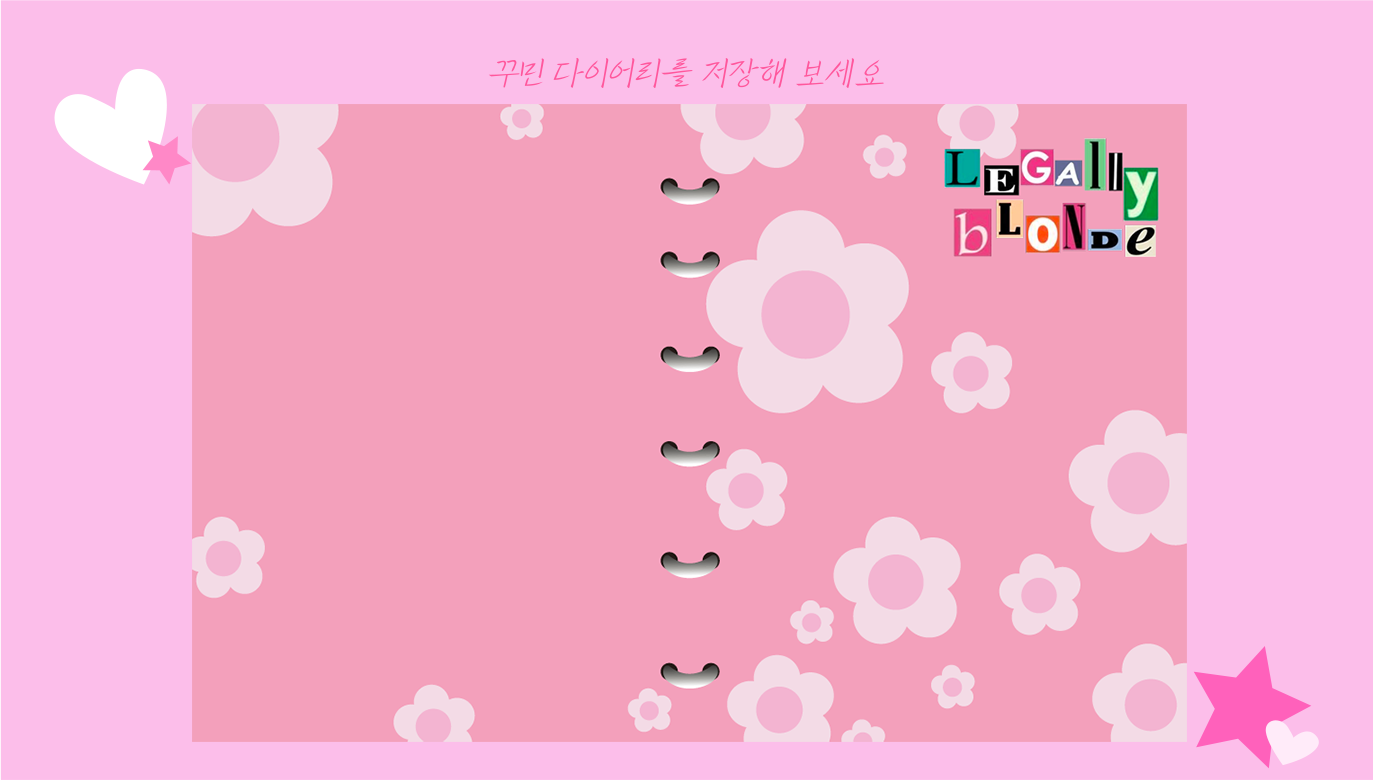
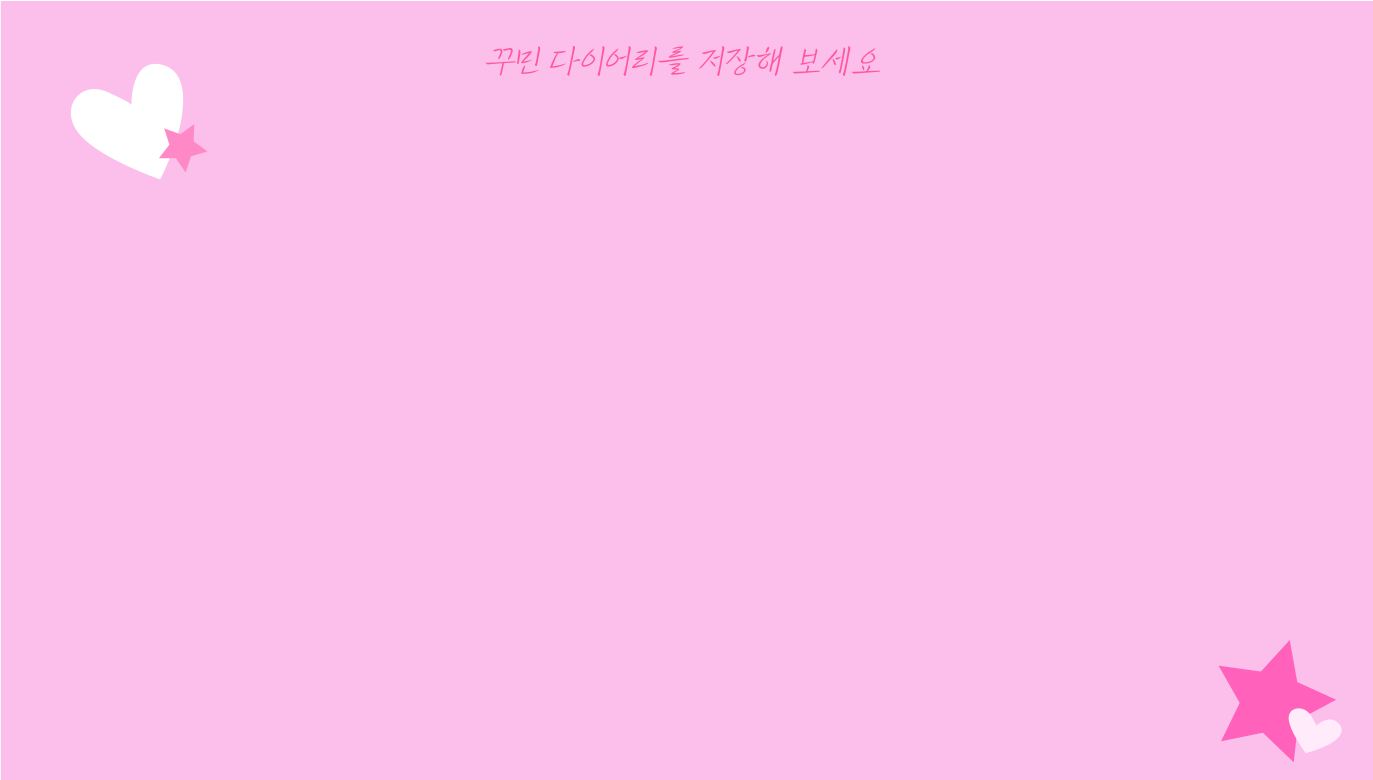
final needed

diff --git a/src/pages/SavePage/SavePage.js b/src/pages/SavePage/SavePage.js
@@ -1,34 +1,44 @@
-import React, { useRef } from "react";
+import React, { useState, useEffect } from "react";
 import html2canvas from "html2canvas";
-
-import stick from "../../assets/images/15.png";
-
 import classes from "./SavePage.module.css";
 
-const ImageExporter = () => {
-  const componentRef = useRef(null);
+const SavePage = ({ posterImageRef, contentImageRef }) => {
+  const [posterSrc, setPosterSrc] = useState("");
+  const [contentSrc, setContentSrc] = useState("");
 
   const exportAsPng = () => {
-    html2canvas(componentRef.current).then((canvas) => {
-      const dataUrl = canvas.toDataURL("image/png");
-      const link = document.createElement("a");
-      link.href = dataUrl;
-      link.download = "image.png";
-      link.click();
-    });
+    // Perform export logic here
   };
+
+  useEffect(() => {
+    const updateImages = async () => {
+      if (posterImageRef.current) {
+        const posterCanvas = await html2canvas(posterImageRef.current);
+        setPosterSrc(posterCanvas.toDataURL());
+      }
+
+      if (contentImageRef.current) {
+        const contentCanvas = await html2canvas(contentImageRef.current);
+        setContentSrc(contentCanvas.toDataURL());
+      }
+    };
+
+    updateImages();
+  }, [posterImageRef, contentImageRef]);
 
   return (
     <div className={classes["save-background"]}>
-      {/* Your component with the <img> tag */}
-      <div ref={componentRef}>
-        <img src={stick} alt="" />
+      <div className={classes["container"]}>
+        <div id="poster" className={classes["poster"]}>
+          {posterSrc && <img src={posterSrc} alt="Poster" />}
+        </div>
+        <div id="content" className={classes["content"]}>
+          {contentSrc && <img src={contentSrc} alt="Content" />}
+        </div>
       </div>
-
-      {/* Button to trigger export */}
       <button onClick={exportAsPng}>Export as PNG</button>
     </div>
   );
 };
 
-export default ImageExporter;
+export default SavePage;

diff --git a/src/pages/ContentPage/ContentPage.module.css b/src/pages/ContentPage/ContentPage.module.css
@@ -5,6 +5,119 @@
   background-position: center;
   width: 100%;
   height: 100vh;
-  display: block; /* Set images as block elements to remove any remaining gaps */
+  margin-top: 300px;
+  display: block;
   margin-bottom: 0;
+}
+
+.content-image {
+  background-image: url('./content.png');
+  background-size: cover;
+  width: 430px;
+  height: 550px;
+  margin-top: 120px;
+  margin-left: 370px;
+  display: flex;
+  flex-direction: column;
+}
+
+.textbox1{
+  width: 160px;
+  height: 160px;
+  margin-top: 30px;
+  margin-left: 30px;
+  background-color: transparent;
+  border: none;
+}
+
+.textbox1::placeholder {
+  color: black;
+}
+
+.row1{
+  display: flex;
+  flex-direction: row;
+  width: 380px;
+  height: 160px;
+  margin-left: 30px;
+  background-image: url('./textBox1/textbox1.png');
+  padding: 5px;
+}
+
+.textbox2 {
+  width: 180px;
+  height: 150px;
+  margin-left: 10px;
+  background-color: transparent;
+  border: none;
+  color: white;
+}
+
+.textbox2::placeholder {
+  color: white;
+}
+
+.row2{
+  display: flex;
+  flex-direction: row;
+  width: 380px;
+  height: 160px;
+  margin-left: 30px;
+  background-image: url('./textBox2/textbox2.png');
+  padding: 5px;
+}
+
+.textbox3 {
+  width: 180px;
+  height: 150px;
+  margin-left: 10px;
+  background-color: transparent;
+  border: none;
+  color: rgb(234, 15, 212);
+}
+
+.textbox3::placeholder {
+  color: white;
+}
+
+.box1sticker1 {
+  width:100px;
+  height:100px;
+  position: absolute;
+  top: 2300px;
+  left: 500px;
+  z-index: 1;
+}
+
+.box1sticker2 {
+  width:80px;
+  height:100px;
+  position: absolute;
+  top: 2300px;
+  left: 710px;
+}
+
+.box1sticker3 {
+  width:80px;
+  height:70px;
+  position: absolute;
+  top: 2330px;
+  left: 560px;
+  z-index: 0;
+}
+
+.box2sticker1 {
+  width:150px;
+  height:120px;
+  position: absolute;
+  top: 2430px;
+  left: 665px;
+}
+
+.box2sticker2 {
+  width:200px;
+  height: 60px;
+  position: absolute;
+  top: 2490px;
+  left: 590px;
 }

diff --git a/src/pages/ContentPage/ContentPage.js b/src/pages/ContentPage/ContentPage.js
@@ -1,10 +1,42 @@
 // css
 import classes from "./ContentPage.module.css";
 
-const ContentPage = () => {
+// components
+import box1sticker1 from './textBox1/1.png';
+import box1sticker2 from './textBox1/2.png';
+import box1sticker3 from './textBox1/3.png';
+import box2sticker1 from './textBox2/1.png';
+import box2sticker2 from './textBox2/2.png';
+
+const ContentPage = ({contentImageRef}) => {
 
   return (
     <div className={classes["content-background"]}>
+      <div className={classes["content-image"]} ref={contentImageRef} >
+        <textarea
+          className={classes["textbox1"]}
+          placeholder="내용을 입력해주세요"
+        ></textarea>
+        <div className={classes["row1"]}>
+          <textarea
+            className={classes["textbox2"]}
+            placeholder="내용을 입력해주세요"
+          />
+          <textarea className={classes["textbox2"]} />
+        </div>
+        <div className={classes["row2"]}>
+          <textarea
+            className={classes["textbox3"]}
+            placeholder="내용을 입력해주세요"
+          />
+          <textarea className={classes["textbox3"]} />
+        </div>
+        <img src={box1sticker1} alt="" className={classes["box1sticker1"]}/>
+        <img src={box1sticker2} alt="" className={classes["box1sticker2"]}/>
+        <img src={box1sticker3} alt="" className={classes["box1sticker3"]}/>
+        <img src={box2sticker1} alt="" className={classes["box2sticker1"]}/>
+        <img src={box2sticker2} alt="" className={classes["box2sticker2"]}/>
+      </div>
     </div>
   );
 };

diff --git a/src/App.js b/src/App.js
@@ -1,3 +1,5 @@
+import { useRef } from "react";
+
 // pages
 import MainPage from "./pages/MainPage/MainPage";
 import PosterPage from "./pages/PosterPage/PosterPage";
@@ -5,23 +7,22 @@ import ContentPage from "./pages/ContentPage/ContentPage";
 import SavePage from "./pages/SavePage/SavePage";
 
 // components
-import EmptyBox from "./components/EmptyBox/EmptyBox";
 
 // css
 import classes from "./App.module.css";
 
-function App() {
+const App = () => {
+  const posterImage = useRef(null);
+  const contentImage = useRef(null);
+
   return (
-      <div className={classes["App"]}>
-        <MainPage />
-        <EmptyBox />
-        <PosterPage />
-        <EmptyBox />
-        <ContentPage />
-        <EmptyBox />
-        <SavePage />
-      </div>
+    <div className={classes["App"]}>
+      <MainPage />
+      <PosterPage posterImageRef={posterImage} />
+      <ContentPage contentImageRef={contentImage} />
+      <SavePage posterImageRef={posterImage} contentImageRef={contentImage} />
+    </div>
   );
-}
+};
 
 export default App;

diff --git a/src/pages/SavePage/SavePage.module.css b/src/pages/SavePage/SavePage.module.css
@@ -1,10 +1,30 @@
-.save-background {
-  background-image: url('./savepage-background.png');
-  background-repeat: no-repeat;
-  background-size: cover;
-  background-position: center;
+.container {
+  display: flex;
+  flex-direction: row;
+  margin-top: 100px;
+  margin-left: 160px;
+}
+
+.poster {
+  width: 430px;
+  height: 550px;
+  overflow: hidden; /* Add this property to hide any overflowing content */
+}
+
+.poster img {
   width: 100%;
-  height: 100vh;
-  display: block; /* Set images as block elements to remove any remaining gaps */
-  margin-bottom: 0;
+  height: 100%;
+  object-fit: cover; /* Add this property to maintain the image aspect ratio */
+}
+
+.content {
+  width: 430px;
+  height: 550px;
+  overflow: hidden; /* Add this property to hide any overflowing content */
+}
+
+.content img {
+  width: 100%;
+  height: 100%;
+  object-fit: cover; /* Add this property to maintain the image aspect ratio */
 }

diff --git a/src/pages/PosterPage/PosterPage.js b/src/pages/PosterPage/PosterPage.js
@@ -50,7 +50,7 @@ import sticker39 from "../../assets/images/39.png";
 import sticker40 from "../../assets/images/40.png";
 import sticker41 from "../../assets/images/41.png";
 
-const PosterPage = () => {
+const PosterPage = ({ posterImageRef }) => {
   const dragUrl = useRef();
   const stageRef = useRef();
   const [images, setImages] = useState([]);
@@ -347,7 +347,7 @@ const PosterPage = () => {
         onDragStart={handleDragStart}
       />
 
-      <div onDrop={handleDrop} onDragOver={(e) => e.preventDefault()}>
+      <div onDrop={handleDrop} onDragOver={(e) => e.preventDefault()} ref={posterImageRef}>
         <Stage
           width={430}
           height={550}

diff --git a/src/pages/PosterPage/PosterPage.module.css b/src/pages/PosterPage/PosterPage.module.css
@@ -4,6 +4,6 @@
   background-size: cover;
   background-position: center;
   height: 100vh;
+  margin-top: 300px;
   display: block; /* Set images as block elements to remove any remaining gaps */
-  margin-bottom: 0;
 }

diff --git a/src/pages/MainPage/MainPage.module.css b/src/pages/MainPage/MainPage.module.css
@@ -6,5 +6,4 @@
   width: 100%;
   height: 100vh;
   display: block; /* Set images as block elements to remove any remaining gaps */
-  margin-bottom: 0;
 }

diff --git a/src/App.module.css b/src/App.module.css
@@ -1,7 +1,5 @@
 .App {
   display: flex;
   flex-direction: column;
-  width: 100%;
-  height: auto;
 }
 
